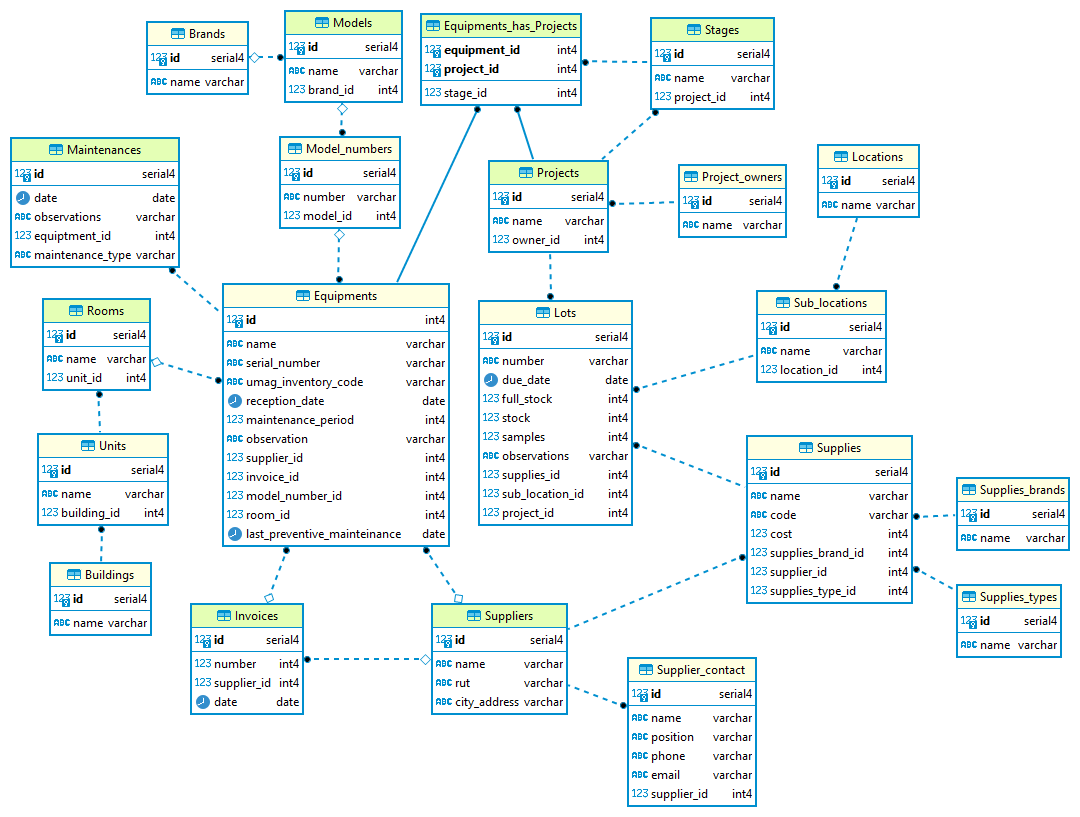
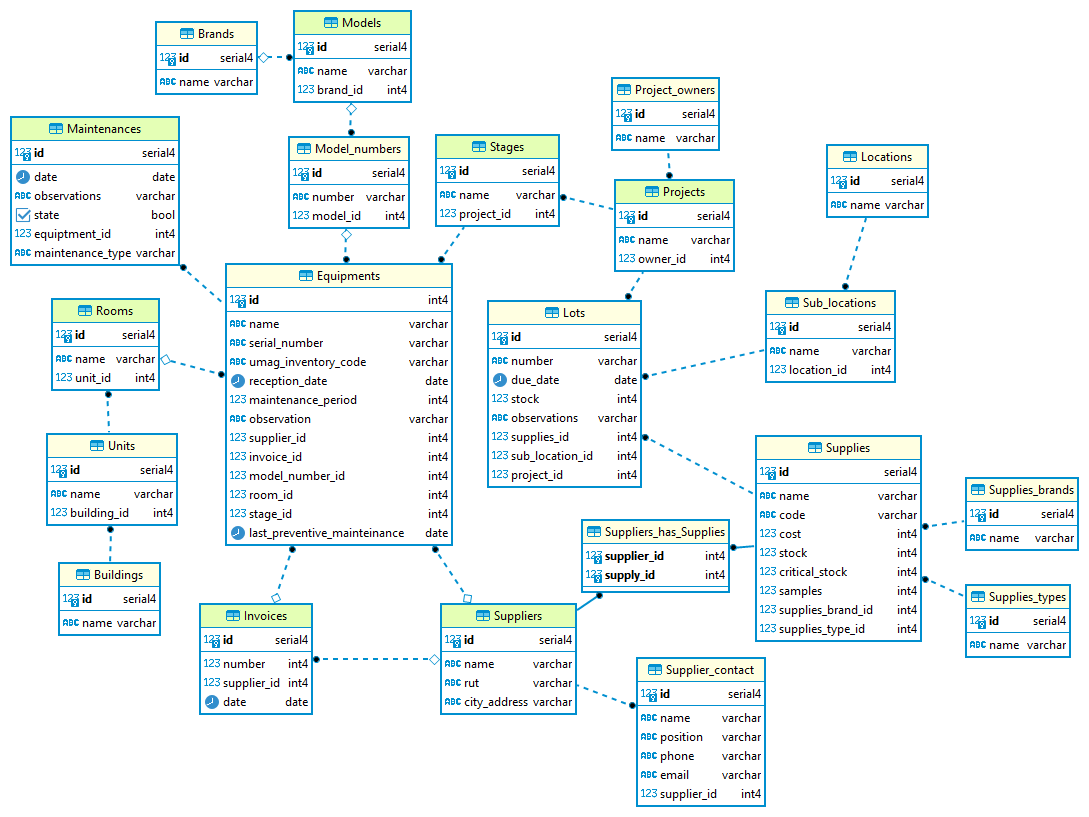
database image and equipment schema updated

diff --git a/Backend/routes/equipments.py b/Backend/routes/equipments.py
@@ -1,8 +1,26 @@
 from fastapi import APIRouter, Response, Depends, UploadFile
 from fastapi.responses import FileResponse
 from starlette.status import HTTP_201_CREATED, HTTP_404_NOT_FOUND, HTTP_204_NO_CONTENT
-from models.models import Equipments, Suppliers, Invoices, Model_numbers, Rooms, Units, Buildings, Maintenances, Brands, Models
-from schemas.equipment_schema import EquipmentSchema, EquipmentFullSchema, EquipmentListSchema, UpdateEquipmentSchema
+from models.models import (
+    Equipments,
+    Suppliers,
+    Invoices,
+    Model_numbers,
+    Rooms,
+    Units,
+    Buildings,
+    Maintenances,
+    Brands,
+    Models,
+    Stages,
+    Projects,
+)
+from schemas.equipment_schema import (
+    EquipmentSchema,
+    EquipmentFullSchema,
+    EquipmentListSchema,
+    UpdateEquipmentSchema,
+)
 from typing import List
 from config.database import get_db
 from sqlalchemy.orm import Session
@@ -13,95 +31,170 @@ from routes.suppliers import get_supplier
 from routes.invoices import get_invoice
 from routes.model_numbers import get_model_number
 from routes.rooms import get_room
+from routes.stages import get_stage
 
 equipments = APIRouter()
 
+
 @equipments.get("/api/equipments", response_model=List[EquipmentListSchema])
-def get_equipments(db:Session = Depends(get_db)):
-    result = db.query(
-       Equipments.id, Equipments.name, Equipments.serial_number, Equipments.umag_inventory_code, Equipments.reception_date, Equipments.maintenance_period, Equipments.observation,
-       Equipments.room_id, Rooms.name.label("room_name"), Equipments.supplier_id, Suppliers.name.label("supplier_name"), Equipments.invoice_id, Invoices.number.label("invoice_number"),
-       Equipments.model_number_id, Model_numbers.number.label("model_number")).outerjoin(
-       Rooms, Rooms.id == Equipments.room_id).outerjoin(Suppliers, Suppliers.id == Equipments.supplier_id).outerjoin(Invoices, Invoices.id == Equipments.invoice_id).outerjoin(
-       Model_numbers, Model_numbers.id == Equipments.model_number_id).all()
+def get_equipments(db: Session = Depends(get_db)):
+    result = (
+        db.query(
+            Equipments.id,
+            Equipments.name,
+            Equipments.serial_number,
+            Equipments.umag_inventory_code,
+            Equipments.reception_date,
+            Equipments.maintenance_period,
+            Equipments.observation,
+            Equipments.room_id,
+            Rooms.name.label("room_name"),
+            Equipments.supplier_id,
+            Suppliers.name.label("supplier_name"),
+            Equipments.invoice_id,
+            Invoices.number.label("invoice_number"),
+            Equipments.model_number_id,
+            Model_numbers.number.label("model_number"),
+        )
+        .outerjoin(Rooms, Rooms.id == Equipments.room_id)
+        .outerjoin(Suppliers, Suppliers.id == Equipments.supplier_id)
+        .outerjoin(Invoices, Invoices.id == Equipments.invoice_id)
+        .outerjoin(Model_numbers, Model_numbers.id == Equipments.model_number_id)
+        .all()
+    )
     return result
 
-@equipments.post("/api/equipments", status_code=HTTP_201_CREATED)
-def add_equipment(equipment: EquipmentSchema, db:Session = Depends(get_db)):
-   if equipment.supplier_id != None:
-      db_supplier = get_supplier(equipment.supplier_id, db=db)
-      if not db_supplier:
-         return Response(status_code=HTTP_404_NOT_FOUND)
-   if equipment.invoice_id != None:
-      db_invoice = get_invoice(equipment.invoice_id, db=db)
-      if not db_invoice:
-         print("No se encontro el invoice", equipment.invoice_id)
-         return Response(status_code=HTTP_404_NOT_FOUND)
-   if equipment.model_number_id != None:
-      db_model_number = get_model_number(equipment.model_number_id, db=db)
-      if not db_model_number:
-         return Response(status_code=HTTP_404_NOT_FOUND)
-   if equipment.room_id != None:
-      db_room = get_room(equipment.room_id, db=db)
-      if not db_room:
-         return Response(status_code=HTTP_404_NOT_FOUND)
-      
-   new_equipment = Equipments(name = equipment.name, serial_number = equipment.serial_number, umag_inventory_code = equipment.umag_inventory_code, reception_date = equipment.reception_date, 
-                               maintenance_period = equipment.maintenance_period, observation = equipment.observation, last_preventive_mainteinance = equipment.last_preventive_mainteinance,
-                               supplier_id = equipment.supplier_id, invoice_id = equipment.invoice_id, model_number_id = equipment.model_number_id, room_id = equipment.room_id)
-   db.add(new_equipment)
-   db.commit()
-   db.refresh(new_equipment)
-   content = str(new_equipment.id)
-   return Response(status_code=HTTP_201_CREATED, content=content)
 
-#Upload image to equipments folder using invoice id
+@equipments.post("/api/equipments", status_code=HTTP_201_CREATED)
+def add_equipment(equipment: EquipmentSchema, db: Session = Depends(get_db)):
+    if equipment.supplier_id != None:
+        db_supplier = get_supplier(equipment.supplier_id, db=db)
+        if not db_supplier:
+            return Response(status_code=HTTP_404_NOT_FOUND)
+    if equipment.invoice_id != None:
+        db_invoice = get_invoice(equipment.invoice_id, db=db)
+        if not db_invoice:
+            print("No se encontro el invoice", equipment.invoice_id)
+            return Response(status_code=HTTP_404_NOT_FOUND)
+    if equipment.model_number_id != None:
+        db_model_number = get_model_number(equipment.model_number_id, db=db)
+        if not db_model_number:
+            return Response(status_code=HTTP_404_NOT_FOUND)
+    if equipment.room_id != None:
+        db_room = get_room(equipment.room_id, db=db)
+        if not db_room:
+            return Response(status_code=HTTP_404_NOT_FOUND)
+    if equipment.stage_id != None:
+        db_stage = get_stage(equipment.stage_id)
+        if not db_stage:
+            return Response(status_code=HTTP_404_NOT_FOUND)
+
+    new_equipment = Equipments(
+        name=equipment.name,
+        serial_number=equipment.serial_number,
+        umag_inventory_code=equipment.umag_inventory_code,
+        reception_date=equipment.reception_date,
+        maintenance_period=equipment.maintenance_period,
+        observation=equipment.observation,
+        last_preventive_mainteinance=equipment.last_preventive_mainteinance,
+        supplier_id=equipment.supplier_id,
+        invoice_id=equipment.invoice_id,
+        model_number_id=equipment.model_number_id,
+        room_id=equipment.room_id,
+        stage_id=equipment.stage_id,
+    )
+    db.add(new_equipment)
+    db.commit()
+    db.refresh(new_equipment)
+    content = str(new_equipment.id)
+    return Response(status_code=HTTP_201_CREATED, content=content)
+
+
+# Upload image to equipments folder using invoice id
 @equipments.post("/api/equipments/{equipment_id}", status_code=HTTP_201_CREATED)
 async def add_image(equipment_id: int, file: UploadFile):
-    if not os.path.exists(f'./images/equipments/{equipment_id}'):
-        os.makedirs(f'./images/equipments/{equipment_id}')
-    with open(f'./images/equipments/{equipment_id}/{file.filename}', "wb") as buffer:
+    if not os.path.exists(f"./images/equipments/{equipment_id}"):
+        os.makedirs(f"./images/equipments/{equipment_id}")
+    with open(f"./images/equipments/{equipment_id}/{file.filename}", "wb") as buffer:
         shutil.copyfileobj(file.file, buffer)
     return Response(status_code=HTTP_201_CREATED)
 
-#Get images from equipments folder
+
+# Get images from equipments folder
 @equipments.get("/api/equipments/image/{equipment_id}")
 async def get_images(equipment_id: int):
-   image_dir = f"/images/equipments/{equipment_id}"
-   if not os.path.exists("."+image_dir):
-      return Response(status_code=HTTP_404_NOT_FOUND)
-   response = []
-   files = os.listdir("."+image_dir)
-   count = 1
-   for file in files:
-      image = {
-         'id': count,
-         'name': file,
-         'path': f"http://localhost:8000{image_dir}/{file}"
-         }
-      count = count+1
-      response.append(image)
-   return response
+    image_dir = f"/images/equipments/{equipment_id}"
+    if not os.path.exists("." + image_dir):
+        return Response(status_code=HTTP_404_NOT_FOUND)
+    response = []
+    files = os.listdir("." + image_dir)
+    count = 1
+    for file in files:
+        image = {
+            "id": count,
+            "name": file,
+            "path": f"http://localhost:8000{image_dir}/{file}",
+        }
+        count = count + 1
+        response.append(image)
+    return response
+
 
 @equipments.get("/api/equipments/{equipment_id}", response_model=EquipmentFullSchema)
-def get_equipment(equipment_id: int, db:Session = Depends(get_db)):
-   result = db.query(
-      Equipments.id, Equipments.name, Equipments.serial_number, Equipments.umag_inventory_code, Equipments.reception_date, Equipments.maintenance_period, Equipments.observation,
-      Equipments.room_id, Rooms.name.label("room_name"), Equipments.supplier_id, Suppliers.name.label("supplier_name"), Equipments.invoice_id, Invoices.number.label("invoice_number"),
-      Brands.id.label("brand_id"), Brands.name.label("brand_name"), Models.id.label("model_id"), Models.name.label("model_name"),
-      Equipments.model_number_id, Model_numbers.number.label("model_number"), Units.id.label("unit_id"), Units.name.label("unit_name"), Buildings.id.label("building_id"), Buildings.name.label("building_name")
-      ).outerjoin(
-      Rooms, Rooms.id == Equipments.room_id).outerjoin(Suppliers, Suppliers.id == Equipments.supplier_id).outerjoin(Invoices, Invoices.id == Equipments.invoice_id).outerjoin(
-      Model_numbers, Model_numbers.id == Equipments.model_number_id).outerjoin(Models, Models.id == Model_numbers.id).outerjoin(Brands, Brands.id == Models.brand_id
-      ).outerjoin(Units, Units.id == Rooms.unit_id).outerjoin(Buildings, Buildings.id == Units.building_id).filter(Equipments.id == equipment_id).first()
-   return result
+def get_equipment(equipment_id: int, db: Session = Depends(get_db)):
+    result = (
+        db.query(
+            Equipments.id,
+            Equipments.name,
+            Equipments.serial_number,
+            Equipments.umag_inventory_code,
+            Equipments.reception_date,
+            Equipments.maintenance_period,
+            Equipments.observation,
+            Equipments.room_id,
+            Rooms.name.label("room_name"),
+            Equipments.supplier_id,
+            Suppliers.name.label("supplier_name"),
+            Equipments.invoice_id,
+            Invoices.number.label("invoice_number"),
+            Brands.id.label("brand_id"),
+            Brands.name.label("brand_name"),
+            Models.id.label("model_id"),
+            Models.name.label("model_name"),
+            Equipments.model_number_id,
+            Model_numbers.number.label("model_number"),
+            Units.id.label("unit_id"),
+            Units.name.label("unit_name"),
+            Buildings.id.label("building_id"),
+            Buildings.name.label("building_name"),
+            Stages.id.label("stage_id"),
+            Stages.name.label("stage_name"),
+            Projects.id.label("project_id"),
+            Projects.name.label("project_name"),
+        )
+        .outerjoin(Rooms, Rooms.id == Equipments.room_id)
+        .outerjoin(Suppliers, Suppliers.id == Equipments.supplier_id)
+        .outerjoin(Invoices, Invoices.id == Equipments.invoice_id)
+        .outerjoin(Model_numbers, Model_numbers.id == Equipments.model_number_id)
+        .outerjoin(Models, Models.id == Model_numbers.id)
+        .outerjoin(Brands, Brands.id == Models.brand_id)
+        .outerjoin(Units, Units.id == Rooms.unit_id)
+        .outerjoin(Buildings, Buildings.id == Units.building_id)
+        .outerjoin(Stages, Stages.id == Equipments.stage_id)
+        .outerjoin(Projects, Projects.id == Stages.project_id)
+        .filter(Equipments.id == equipment_id)
+        .first()
+    )
+    return result
+
 
 @equipments.get("/api/equipment/{equipment_id}", response_model=EquipmentSchema)
-def get_equipment_exist(equipment_id: int, db:Session = Depends(get_db)):
-   return db.query(Equipments).filter(Equipments.id == equipment_id)
+def get_equipment_exist(equipment_id: int, db: Session = Depends(get_db)):
+    return db.query(Equipments).filter(Equipments.id == equipment_id)
+
 
 @equipments.delete("/api/equipments/{equipment_id}", status_code=HTTP_204_NO_CONTENT)
-def delete_equipment(equipment_id: int, db:Session = Depends(get_db)):
+def delete_equipment(equipment_id: int, db: Session = Depends(get_db)):
     db_equipment = db.query(Equipments).filter(Equipments.id == equipment_id).first()
     if not db_equipment:
         return Response(status_code=HTTP_404_NOT_FOUND)
@@ -109,8 +202,11 @@ def delete_equipment(equipment_id: int, db:Session = Depends(get_db)):
     db.commit()
     return Response(status_code=HTTP_204_NO_CONTENT)
 
+
 @equipments.put("/api/equipments/{equipment_id}", response_model=UpdateEquipmentSchema)
-def update_equipment(data_update: UpdateEquipmentSchema, equipment_id: int, db:Session = Depends(get_db)):
+def update_equipment(
+    data_update: UpdateEquipmentSchema, equipment_id: int, db: Session = Depends(get_db)
+):
     db_equipment = db.query(Equipments).filter(Equipments.id == equipment_id).first()
     if not db_equipment:
         return Response(status_code=HTTP_404_NOT_FOUND)

diff --git a/Backend/schemas/equipment_schema.py b/Backend/schemas/equipment_schema.py
@@ -2,6 +2,7 @@ from typing import Optional
 from pydantic import BaseModel
 from datetime import date
 
+
 class EquipmentSchema(BaseModel):
     id: Optional[int]
     name: str
@@ -15,10 +16,11 @@ class EquipmentSchema(BaseModel):
     invoice_id: Optional[int]
     model_number_id: Optional[int]
     room_id: Optional[int]
-
+    stage_id: Optional[int]
 
     class Config:
         orm_mode = True
+
 
 class EquipmentListSchema(BaseModel):
     id: Optional[int]
@@ -41,6 +43,7 @@ class EquipmentListSchema(BaseModel):
     class Config:
         orm_mode = True
 
+
 class EquipmentFullSchema(BaseModel):
     id: Optional[int]
     name: str
@@ -49,7 +52,7 @@ class EquipmentFullSchema(BaseModel):
     reception_date: date
     maintenance_period: Optional[int]
     observation: Optional[str]
-    last_preventive_mainteinance: Optional[date]  
+    last_preventive_mainteinance: Optional[date]
     room_id: Optional[int]
     room_name: Optional[str]
     unit_id: Optional[int]
@@ -66,9 +69,14 @@ class EquipmentFullSchema(BaseModel):
     model_name: Optional[str]
     model_number_id: Optional[int]
     model_number: Optional[str]
+    stage_id: Optional[int]
+    stage_name: Optional[str]
+    project_id: Optional[int]
+    project_name: Optional[str]
 
     class Config:
         orm_mode = True
+
 
 class UpdateEquipmentSchema(BaseModel):
     id: Optional[int]
@@ -83,6 +91,7 @@ class UpdateEquipmentSchema(BaseModel):
     invoice_id: Optional[int]
     model_number_id: Optional[int]
     room_id: Optional[int]
+    stage_id: Optional[int]
 
     class Config:
         orm_mode = True

diff --git a/Backend/models/models.py b/Backend/models/models.py
@@ -1,4 +1,4 @@
-from sqlalchemy import Integer, String, LargeBinary, Date, Boolean, Sequence
+from sqlalchemy import Integer, String, Date, Boolean, Sequence
 from sqlalchemy.schema import ForeignKey
 from sqlalchemy.orm import relationship, mapped_column, Mapped
 from typing import List, Optional
@@ -139,7 +139,9 @@ class Equipments(Base):
     room_id: Mapped[Optional[int]] = mapped_column(
         Integer, ForeignKey("Rooms.id", ondelete="SET NULL")
     )
-    stage_id: Mapped[int] = mapped_column(Integer, ForeignKey("Stages.id", ondelete="SET NULL"))
+    stage_id: Mapped[int] = mapped_column(
+        Integer, ForeignKey("Stages.id", ondelete="SET NULL")
+    )
     maintenances: Mapped[List["Maintenances"]] = relationship(
         "Maintenances", backref="Equipments", cascade="delete,merge"
     )

diff --git a/Backend/app.py b/Backend/app.py
@@ -26,11 +26,11 @@ from routes.sub_locations import sub_locations
 
 
 def create_tables():
-    Base.metadata.drop_all(bind=engine)
+    #    Base.metadata.drop_all(bind=engine)
     Base.metadata.create_all(bind=engine)
 
 
-create_tables()
+# create_tables()
 app = FastAPI()
 app.mount("/images", StaticFiles(directory="images"), name="images")
 app.add_middleware(
